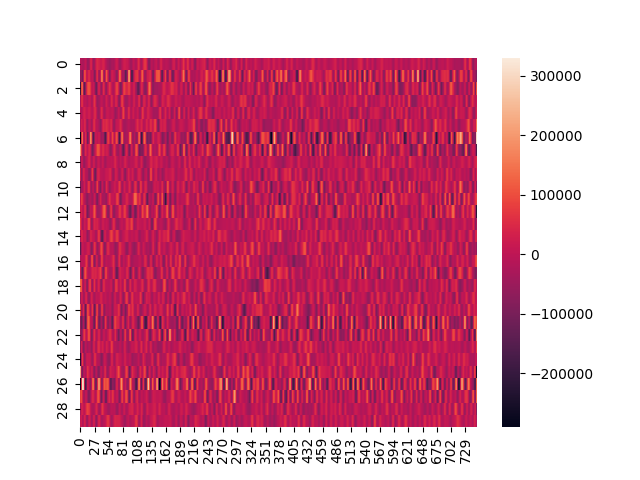
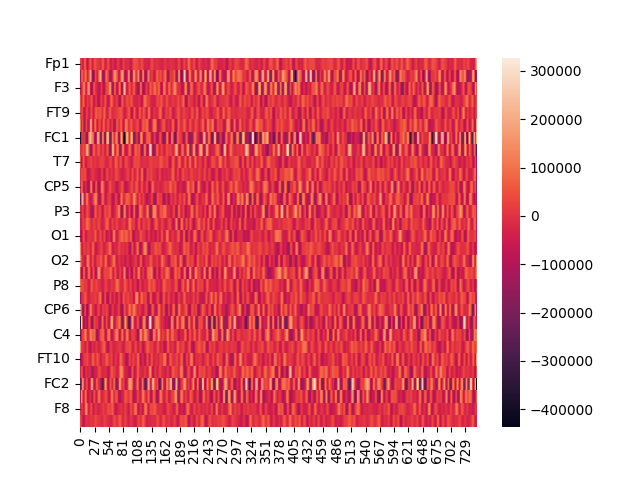
'f-amp', 'tl-peak' for valence and arousal

diff --git a/src/main-lda.py b/src/main-lda.py
@@ -33,6 +33,9 @@ if __name__ == '__main__':
     pd_signal = None
     pd_gender = []
 
+    coefs_valence = []
+    coefs_arousal = []
+
     for idx, code in enumerate(codes):
 
         # TODO: remove vasa28 and viwi30 when data available
@@ -45,12 +48,14 @@ if __name__ == '__main__':
             data = pickle.load(f)
         with open(paths[idx].replace('_data', '_info'), 'rb') as f:
             info = pickle.load(f)
+            index_channels_eeg = [index for index in range(len(info['channels'])) if 'EOG' not in info['channels'][index]]
+            channels_eeg = np.array(info['channels'])[index_channels_eeg]
         with open(paths[idx].replace('_data', '_labels'), 'rb') as f:
             labels = pickle.load(f)
             conditions = [label.split('/')[1] for label in labels]
             unique_conditions = list(set(conditions))
 
-        data = data[:, [index for index in range(len(info['channels'])) if 'EOG' not in info['channels'][index]]]
+        data = data[:, index_channels_eeg]
 
         g = participant_data.loc[participant_data['code'] == code]['gender'].values[0]
 
@@ -109,7 +114,9 @@ if __name__ == '__main__':
         Y = pd_data_valence[['valence']] == 'H'
 
         X_train, X_test, y_train, y_test = train_test_split(X, Y, test_size=0.30, random_state=42)
-        print(y_train)
+        y_train = np.ravel(y_train)
+        y_test = np.ravel(y_test)
+
         model = LDA()
         model.fit(X_train, y_train)
 
@@ -117,6 +124,8 @@ if __name__ == '__main__':
         print('Train score:', model.score(X_train, y_train))
         print('Test score:', model.score(X_test, y_test))
         print(model.coef_)
+
+        coefs_valence.append(model.coef_[0])
 
         pd_data_arousal = np.vstack((np.array(arousal), frontal_amplitude, np.array(peaks))).T
         pd_data_arousal = pd.DataFrame(data=pd_data_arousal, columns=['arousal', 'f-amp', 'tl-peak'])
@@ -133,10 +142,14 @@ if __name__ == '__main__':
         print('Test score:', model.score(X_test, y_test))
         print(model.coef_)
 
+        coefs_arousal.append(model.coef_[0])
         print('\n')
 
-    # pd = pd.DataFrame(data=pd_data, columns=['manipulation', 'f-amp', 'tl-peak'])
-    # print(pd)
+    coefs_valence = np.array(coefs_valence)
+    coefs_arousal = np.array(coefs_arousal)
+
+    print('Mean coefficients for valence', np.mean(coefs_valence, axis=0))
+    print('Mean coefficients for arousal', np.mean(coefs_arousal, axis=0))
 
     print('\n\nGender prediction from whole signals')
     pd_signal = np.array(pd_signal)
@@ -159,6 +172,8 @@ if __name__ == '__main__':
 
     coefs = np.array(model.coef_)
     coefs = coefs.reshape(-1, data.shape[-1])
+
+    coefs = pd.DataFrame(data=coefs, index=channels_eeg)
 
     seaborn.heatmap(coefs)
     plt.savefig('../images/lda/coefs.png')
